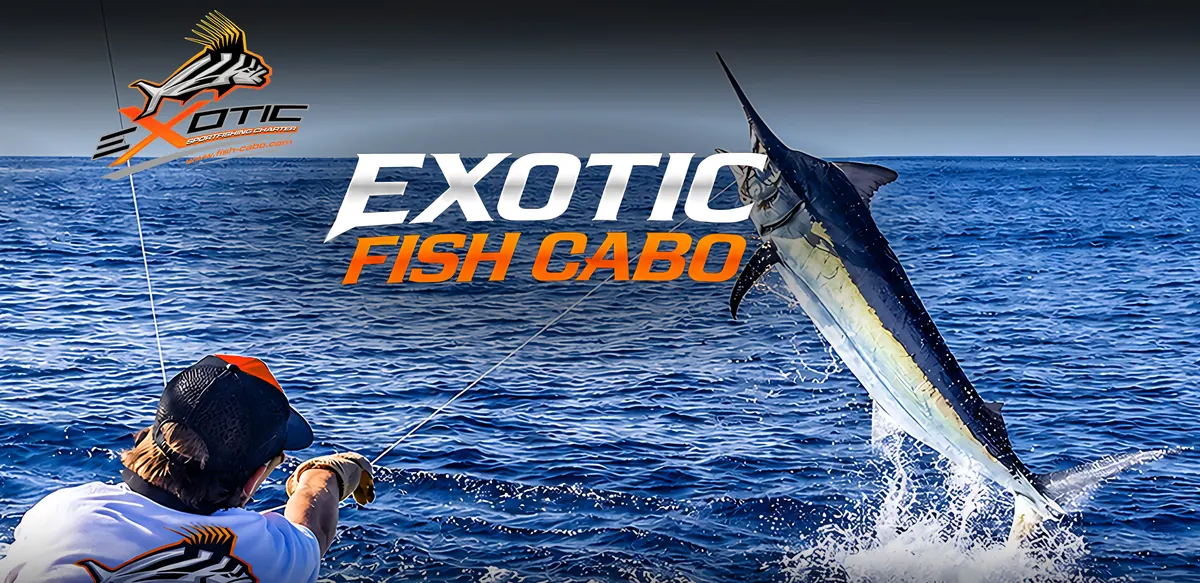
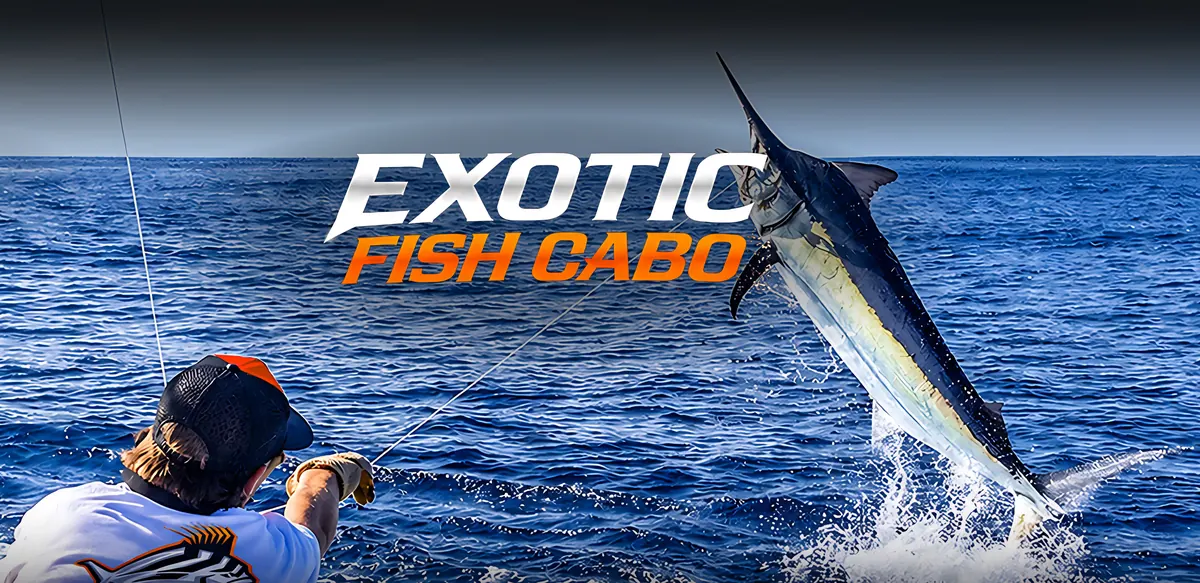
Header, mobile menu and phone bar: the new design on every page (desktop, tablet, phone)
- One header for the whole site (design approved 2026-11-15): same nav, dropdown, Marina GPS / Book Now, burger,
  mobile menu and bottom bar (GPS · WhatsApp → chat · Book Now) on every page; single breakpoint 860px.
- Home: its private copy of the nav / burger / menu / bar removed (no doubled menus; the header logic that hid
  the site header is gone). Desktop home unchanged (header drawn at the same coordinates).
- Phone fixes: logo no longer cut at the top of the home hero (phone hero picture without the baked logo, the
  header logo shows instead); mobile-menu buttons equal size (56px), header solid while the menu is open,
  Explore Fishing collapses when the menu closes, menu closes after a link, page scroll locked while open,
  44px+ touch targets.
- No URL, text, H1, meta, canonical or JSON-LD change; booking/payment code untouched.

Claude-Session: https://claude.ai/code/session_01LaFpspZguawbKJCZyoAALe

Changed region(s): [[0.0617, 0.0, 0.2467, 0.3087]]

diff --git a/src/styles/efd-home.css b/src/styles/efd-home.css
@@ -1,4 +1,5 @@
-/* Homepage top design (owner 2026-11-15). Self-contained: every class is prefixed efd-, nothing here touches other pages.
+/* Exotic Fish Cabo design (owner 2026-11-15): homepage top + the site header, mobile menu and phone bar on every page.
+   Every class is prefixed efd-.
    Visual source of truth: the approved prototype (claude.ai artifact E5sJAoZBC3sLrFdTNze4of, v15). */
 
 @font-face { font-family: "Barlow Condensed"; src: url("/fonts/efd/barlow-condensed-latin-600-italic.woff2") format("woff2"); font-weight: 600; font-style: italic; font-display: swap; }
@@ -10,19 +11,19 @@
 @font-face { font-family: "Poppins"; src: url("/fonts/efd/poppins-latin-400-normal.woff2") format("woff2"); font-weight: 400; font-style: normal; font-display: swap; }
 @font-face { font-family: "Poppins"; src: url("/fonts/efd/poppins-latin-500-normal.woff2") format("woff2"); font-weight: 500; font-style: normal; font-display: swap; }
 
-.efd, .efd-mbar {
+.efd, .efd-mbar, .efd-hdr, .efd-mmenu {
   --efd-ink: #05070b; --efd-orange: #fb7704; --efd-orange-hot: #ff8a00; --efd-yellow: #ffcd38;
   --efd-cond: "Barlow Condensed", "Arial Narrow", sans-serif;
   --efd-display: "Montserrat", "Arial Black", sans-serif;
   --efd-body: "Poppins", system-ui, sans-serif;
 }
-:where(.efd) *, :where(.efd-mbar) * { box-sizing: border-box; }
+:where(.efd) *, :where(.efd-mbar) *, :where(.efd-hdr) *, :where(.efd-mmenu) * { box-sizing: border-box; }
 .efd, .efd-mbar, .efd, .efd-mbar { margin: 0; background: var(--efd-ink); color: #fff; }
 .efd, .efd-mbar { font-family: var(--efd-body); -webkit-font-smoothing: antialiased; }
 :where(.efd) img, :where(.efd-mbar) img { display: block; max-width: 100%; height: auto; }
-:where(.efd) a, :where(.efd-mbar) a { color: inherit; text-decoration: none; }
+:where(.efd) a, :where(.efd-mbar) a, :where(.efd-hdr) a, :where(.efd-mmenu) a { color: inherit; text-decoration: none; }
 .efd-sr { position: absolute !important; width: 1px; height: 1px; overflow: hidden; clip: rect(0 0 0 0); white-space: nowrap; }
-:where(.efd) :focus-visible { outline: 3px solid var(--efd-yellow); outline-offset: 3px; }
+:where(.efd, .efd-hdr, .efd-mmenu, .efd-mbar) :focus-visible { outline: 3px solid var(--efd-yellow); outline-offset: 3px; }
 
 
 .efd { container-type: inline-size; position: relative; overflow: hidden; }
